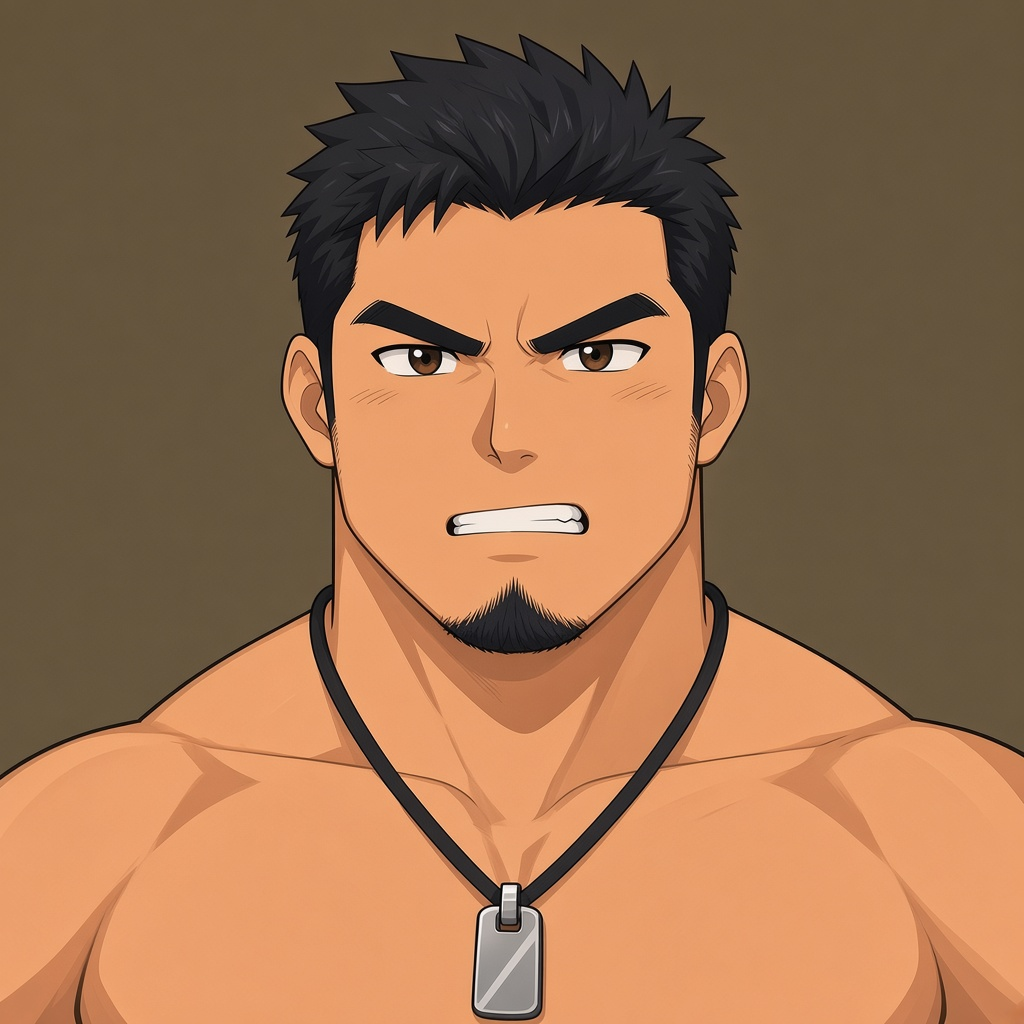
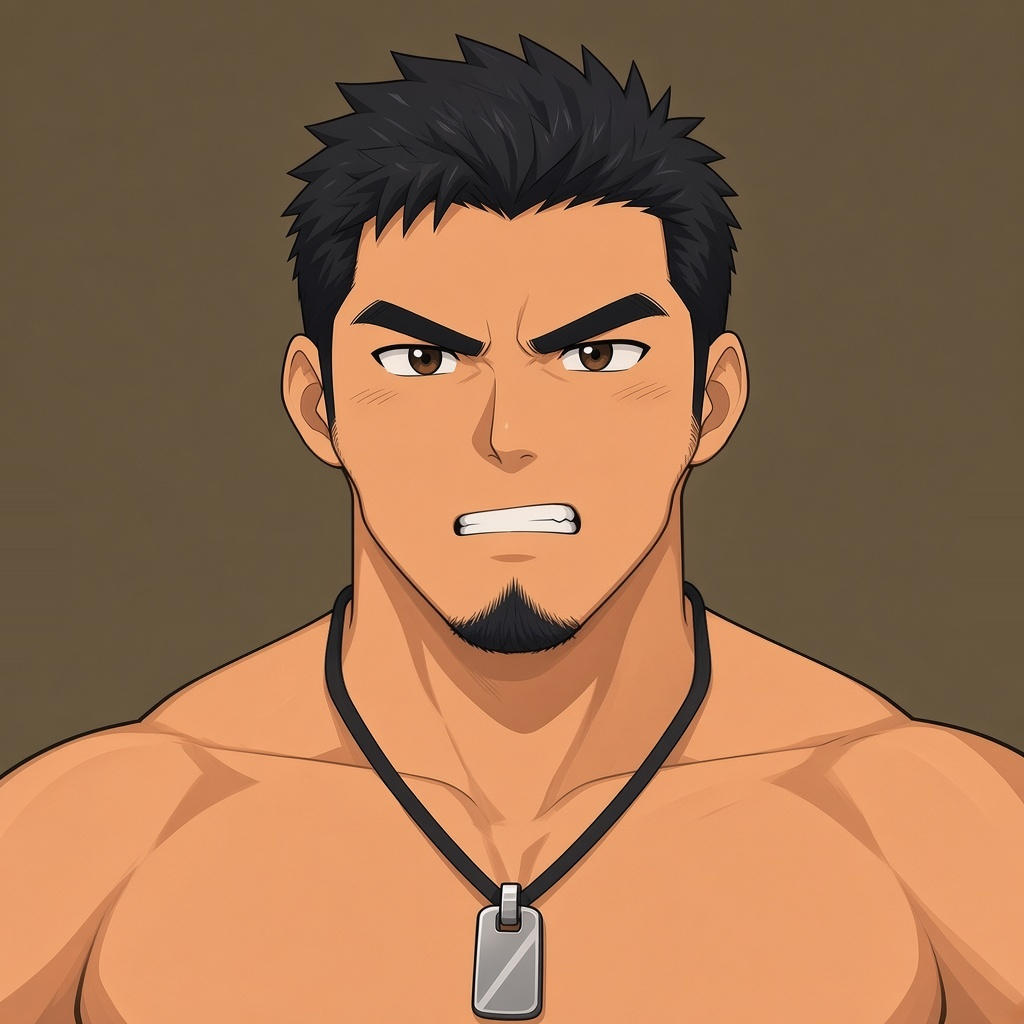
fix: 收一点正视的下颌角
正视两边的下颌骨偏宽，把下颌角往里收，眼睛和耳朵不动。

diff --git a/人物设定图/设定说明.md b/人物设定图/设定说明.md
@@ -4,7 +4,7 @@
 
 脸用选定的那张：眉骨重、眼往侧看、下巴一小撮山羊胡。头发按参考改成短的粗块，块大、轮廓粗、块里不再画细丝。脸加宽，颊更满，下颌和颊的外轮廓是一条圆滑的弧，不再收成瘦尖的下巴。全身上的下巴跟这版圆润轮廓走。身材高、腿长。下身平黑短裤。纹身和旁边的人不进设定。黑绳狗牌和颊上那滴汗只留在头部还原这一套里。
 
-选定的脸还是 `脸部选定/正面.jpg`，那张头是微侧的，眼往旁边看，不当正视。当前只收平视。方向和表情合在 `脸部选定平视.jpg`。方向里的第一格改成正视：脸正对镜头，两耳都在，鼻子在中线，文件是 `脸部选定/正视.jpg`。脸宽和肩宽跟这张对齐。侧面下颌线用上一版：脸上是一条圆滑的弧，从耳前弯到下巴。下巴接到脖子的那条外轮廓不动。方向有正视、左45°、右45°、侧面、背面。表情有平视、侧目、沉脸、怒、惊讶，以及隐忍、喘息、眯眼、高潮、失神、坏笑、微喘、抿嘴、陶醉、吃惊、呼气。每种表情有正视、左45°、侧面。侧目是头仍正对镜头，眼往侧看，嘴角轻笑。平视嘴是平的。沉脸嘴绷直。怒是眉压下去。惊讶张嘴睁眼。隐忍咬牙。喘息张嘴、瞳仁还在。眯眼是眼闭上。高潮眼白上翻。失神是眼松、嘴也松。坏笑嘴角歪、露一点牙。微喘只张开一条缝。抿嘴不露牙。陶醉半眯眼，带着软笑。吃惊眼睁圆、嘴只开一个小口。呼气嘴收得更小，嘴角往一边撇。仰视和俯视这轮不收。
+选定的脸还是 `脸部选定/正面.jpg`，那张头是微侧的，眼往旁边看，不当正视。当前只收平视。方向和表情合在 `脸部选定平视.jpg`。方向里的第一格改成正视：脸正对镜头，两耳都在，鼻子在中线，文件是 `脸部选定/正视.jpg`。正视的下颌角往里收一点，两边不要拉宽。眼睛和耳朵不动。脸宽和肩宽跟选定的脸对齐。侧面下颌线用上一版：脸上是一条圆滑的弧，从耳前弯到下巴。下巴接到脖子的那条外轮廓不动。方向有正视、左45°、右45°、侧面、背面。表情有平视、侧目、沉脸、怒、惊讶，以及隐忍、喘息、眯眼、高潮、失神、坏笑、微喘、抿嘴、陶醉、吃惊、呼气。每种表情有正视、左45°、侧面。侧目是头仍正对镜头，眼往侧看，嘴角轻笑。平视嘴是平的。沉脸嘴绷直。怒是眉压下去。惊讶张嘴睁眼。隐忍咬牙。喘息张嘴、瞳仁还在。眯眼是眼闭上。高潮眼白上翻。失神是眼松、嘴也松。坏笑嘴角歪、露一点牙。微喘只张开一条缝。抿嘴不露牙。陶醉半眯眼，带着软笑。吃惊眼睁圆、嘴只开一个小口。呼气嘴收得更小，嘴角往一边撇。仰视和俯视这轮不收。
 
 ## 识别点
 
